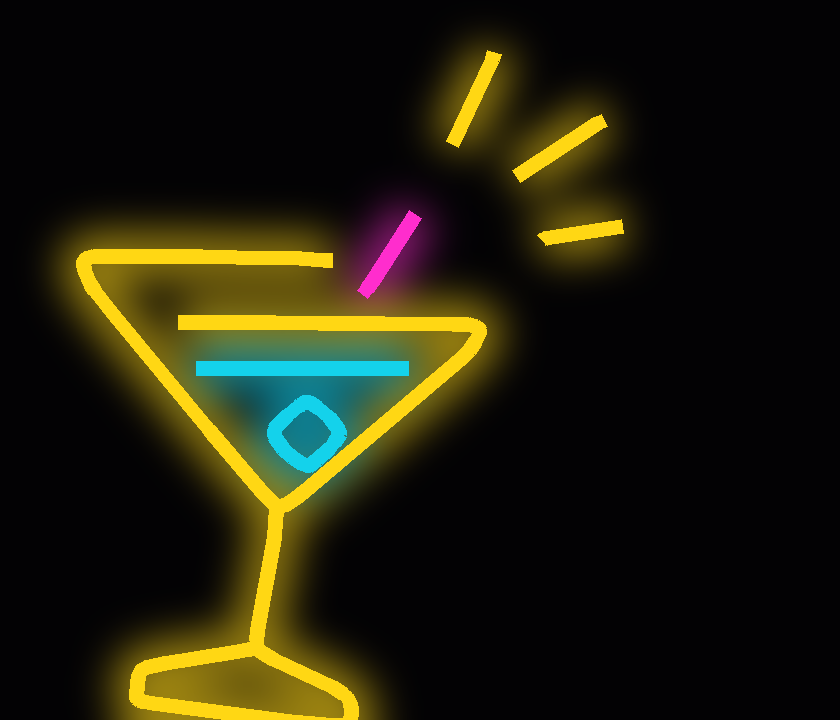
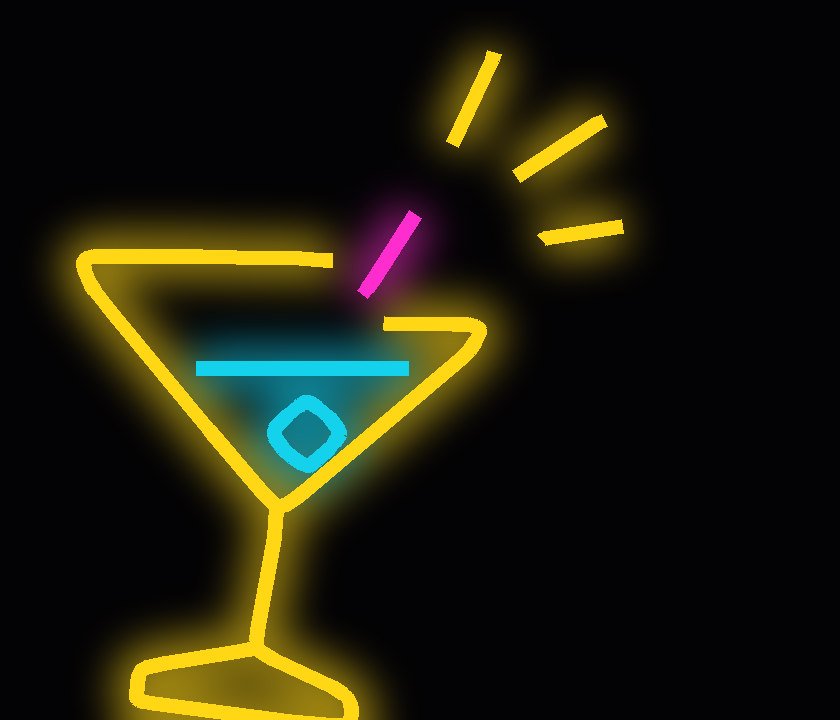
Sign glass: one top edge, front rim cut right of the pick (D-474)

Changed region(s): [[0.1857, 0.3667, 0.4952, 0.5194]]

diff --git a/tools/ui_art/gen_title_inl.py b/tools/ui_art/gen_title_inl.py
@@ -71,6 +71,7 @@ def group(col, cx):
 
 LIQUID_Y, LIQUID_X0, LIQUID_X1 = 244.0, 898.0, 1004.0  # 잔 속 술 선 (원본 화소): 앞쪽 테(y 222) 아래, 양쪽 벽에서 20 쯤 띄움
 OLIVE_DY = 18.0  # 올리브를 술 선 아래로 내림 (선끼리 붙지 않게)
+RIM_CUT_X = 992.0  # 오른쪽 짧은 테가 끝나는 곳 (꼬치 아래끝 x 981 바로 오른쪽)
 
 
 def split_liquid(col, P):
@@ -80,6 +81,14 @@ def split_liquid(col, P):
     xs = [p[0] for p in P]; ys = [p[1] for p in P]
     if P[0] == P[-1] and max(xs) - min(xs) < 50 and max(ys) - min(ys) < 50:
         return [('liquid', [(x, y + OLIVE_DY) for x, y in P]), ('liquid', [(LIQUID_X0, LIQUID_Y), (LIQUID_X1, LIQUID_Y)])]
+    # 잔 테 (D-474): 윗변은 왼쪽 테 → 꼬치 자리 틈 → 오른쪽 모서리에서 꺾여 들어오는 짧은 테 한 줄. 오른쪽 모서리 뒤 앞쪽 테는 꼬치 오른쪽(x 990)에서 끊는다
+    i = xs.index(max(xs))
+    if i < len(P) - 3 and P[-1][0] < P[i][0] - 100:
+        j = next((q for q in range(i + 1, len(P)) if P[q][0] < RIM_CUT_X), len(P))
+        Q = P[:j]
+        a, b = P[j - 1], P[j] if j < len(P) else P[j - 1]
+        if b[0] < a[0]: Q.append((RIM_CUT_X, a[1] + (b[1] - a[1]) * (a[0] - RIM_CUT_X) / (a[0] - b[0])))
+        return [(col, Q)]
     return [(col, P)]
 
 

diff --git a/docs/05-decision-log.md b/docs/05-decision-log.md
@@ -467,3 +467,4 @@
 | D-471 | 2026-11-23 | 시작 화면 간판이 1초 안에 켜짐: BAR 글자 0.1초부터 0.12초 간격(예전 0.4 · 0.28), Alice 는 0.3초부터 0.7초 동안 지직지직 깜빡이다 켜짐(17단계, 예전 1.6초부터 6단계), 잔은 0.85 ~ 1.0초(예전 1.9초) | 사용자: Alice 불 켜지는 거 1초 만에 깜빡이면서 좀 빠르게 | — |
 | D-472 | 2026-11-23 | 간판 마티니 잔 속 술 선 · 올리브를 하늘색으로 (인게임 참고 그림처럼, 시작 화면 · 인게임 배지 같이): gen_title_inl.py 가 잔 테 획을 오른쪽 모서리 뒤 술 선에서 잘라 색 3(잔 속 하늘, 굵기는 노랑, 밝기는 잔 CB)으로, 작은 닫힌 고리(올리브)도 색 3 | 사용자: (시작 화면 잔이) 인게임이랑 다르다, 인게임처럼 | — |
 | D-473 | 2026-11-23 | 잔 속 하늘색 고침 (D-472 수정): 노란 앞쪽 테를 하늘색으로 바꿨더니 잔 오른쪽 테가 사라지고 술 선이 벽에 붙었다. 잔 테(뒤쪽 · 앞쪽)는 노랑 그대로, 술 선은 앞쪽 테 아래(원본 y 244, x 898 ~ 1004)에 양쪽 벽에서 띄워 따로 긋고, 올리브는 하늘색으로 18 내림. 미리보기 docs/images/title-wall/glass_fix.png | 사용자: 컵이 한쪽만 그려지면 안 된다, 네온은 선이 붙어 있으면 느낌이 안 산다 | 앞쪽 테를 하늘색으로 (D-472) |
+| D-474 | 2026-11-23 | 잔 윗변을 한 줄로 (D-473 수정): 왼쪽 테 → 꼬치 자리 틈 → 오른쪽 모서리에서 꺾여 들어오는 짧은 테. 아래에 따로 있던 앞쪽 테는 꼬치 오른쪽(원본 x 992)에서 끊어 없앴다. 하늘색 술 선 · 올리브는 D-473 그대로 | 사용자: 삼각형 부분이 (D-472 때) 두 번째 그림처럼 이어져야 한다 | 앞쪽 테를 노랑으로 남기기 (D-473: 윗변이 두 줄로 보임) |
